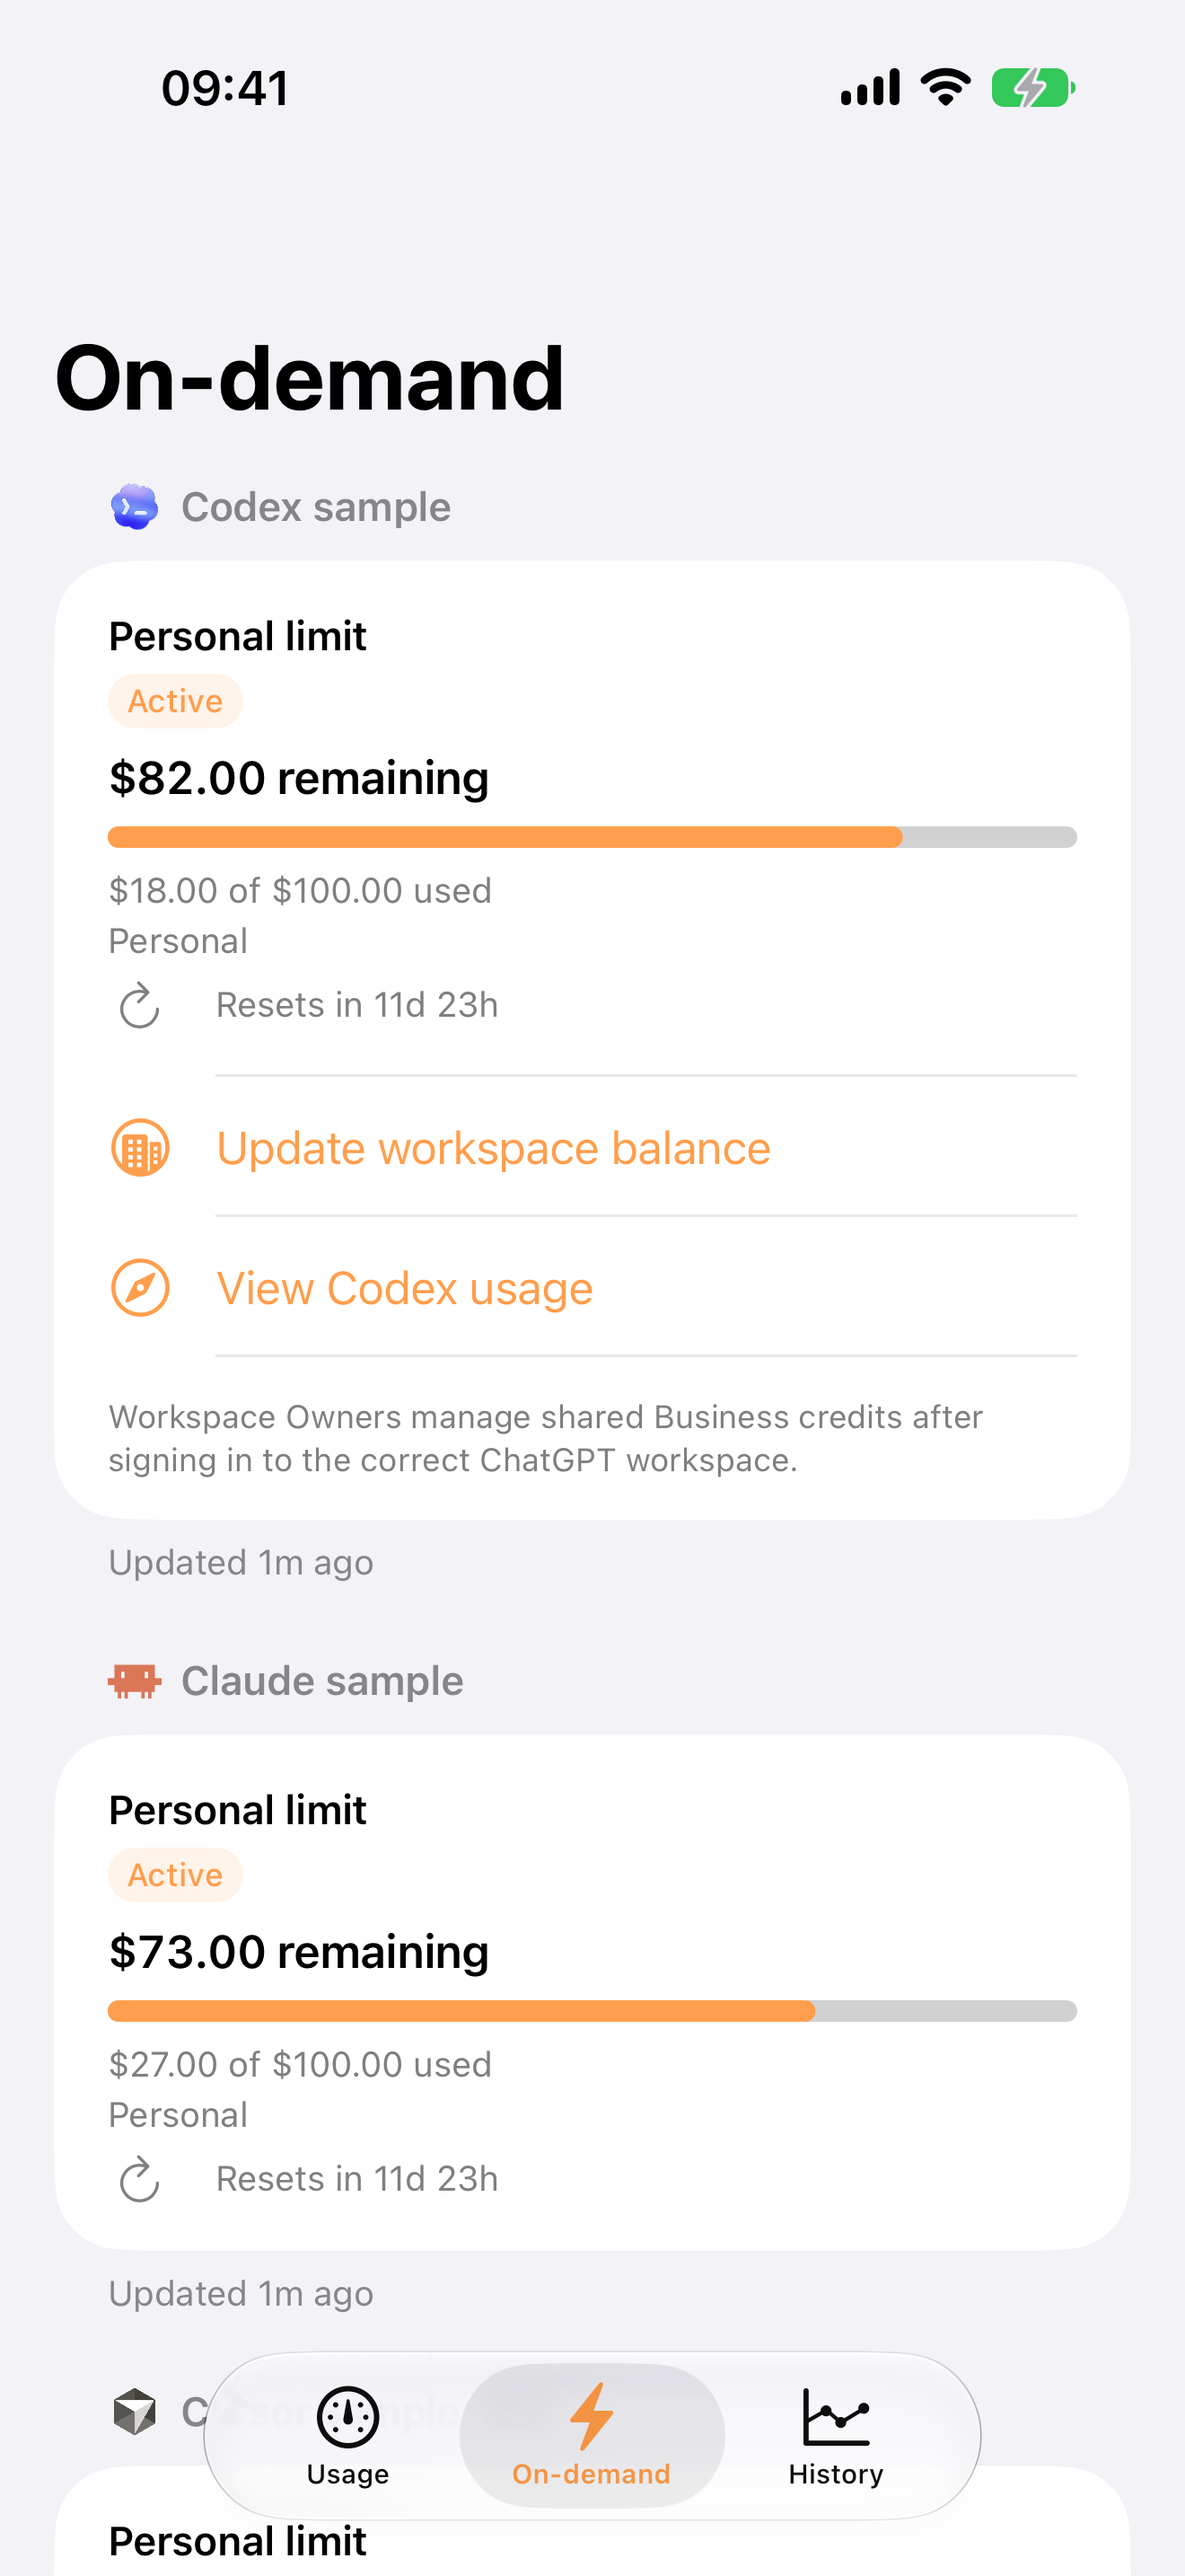
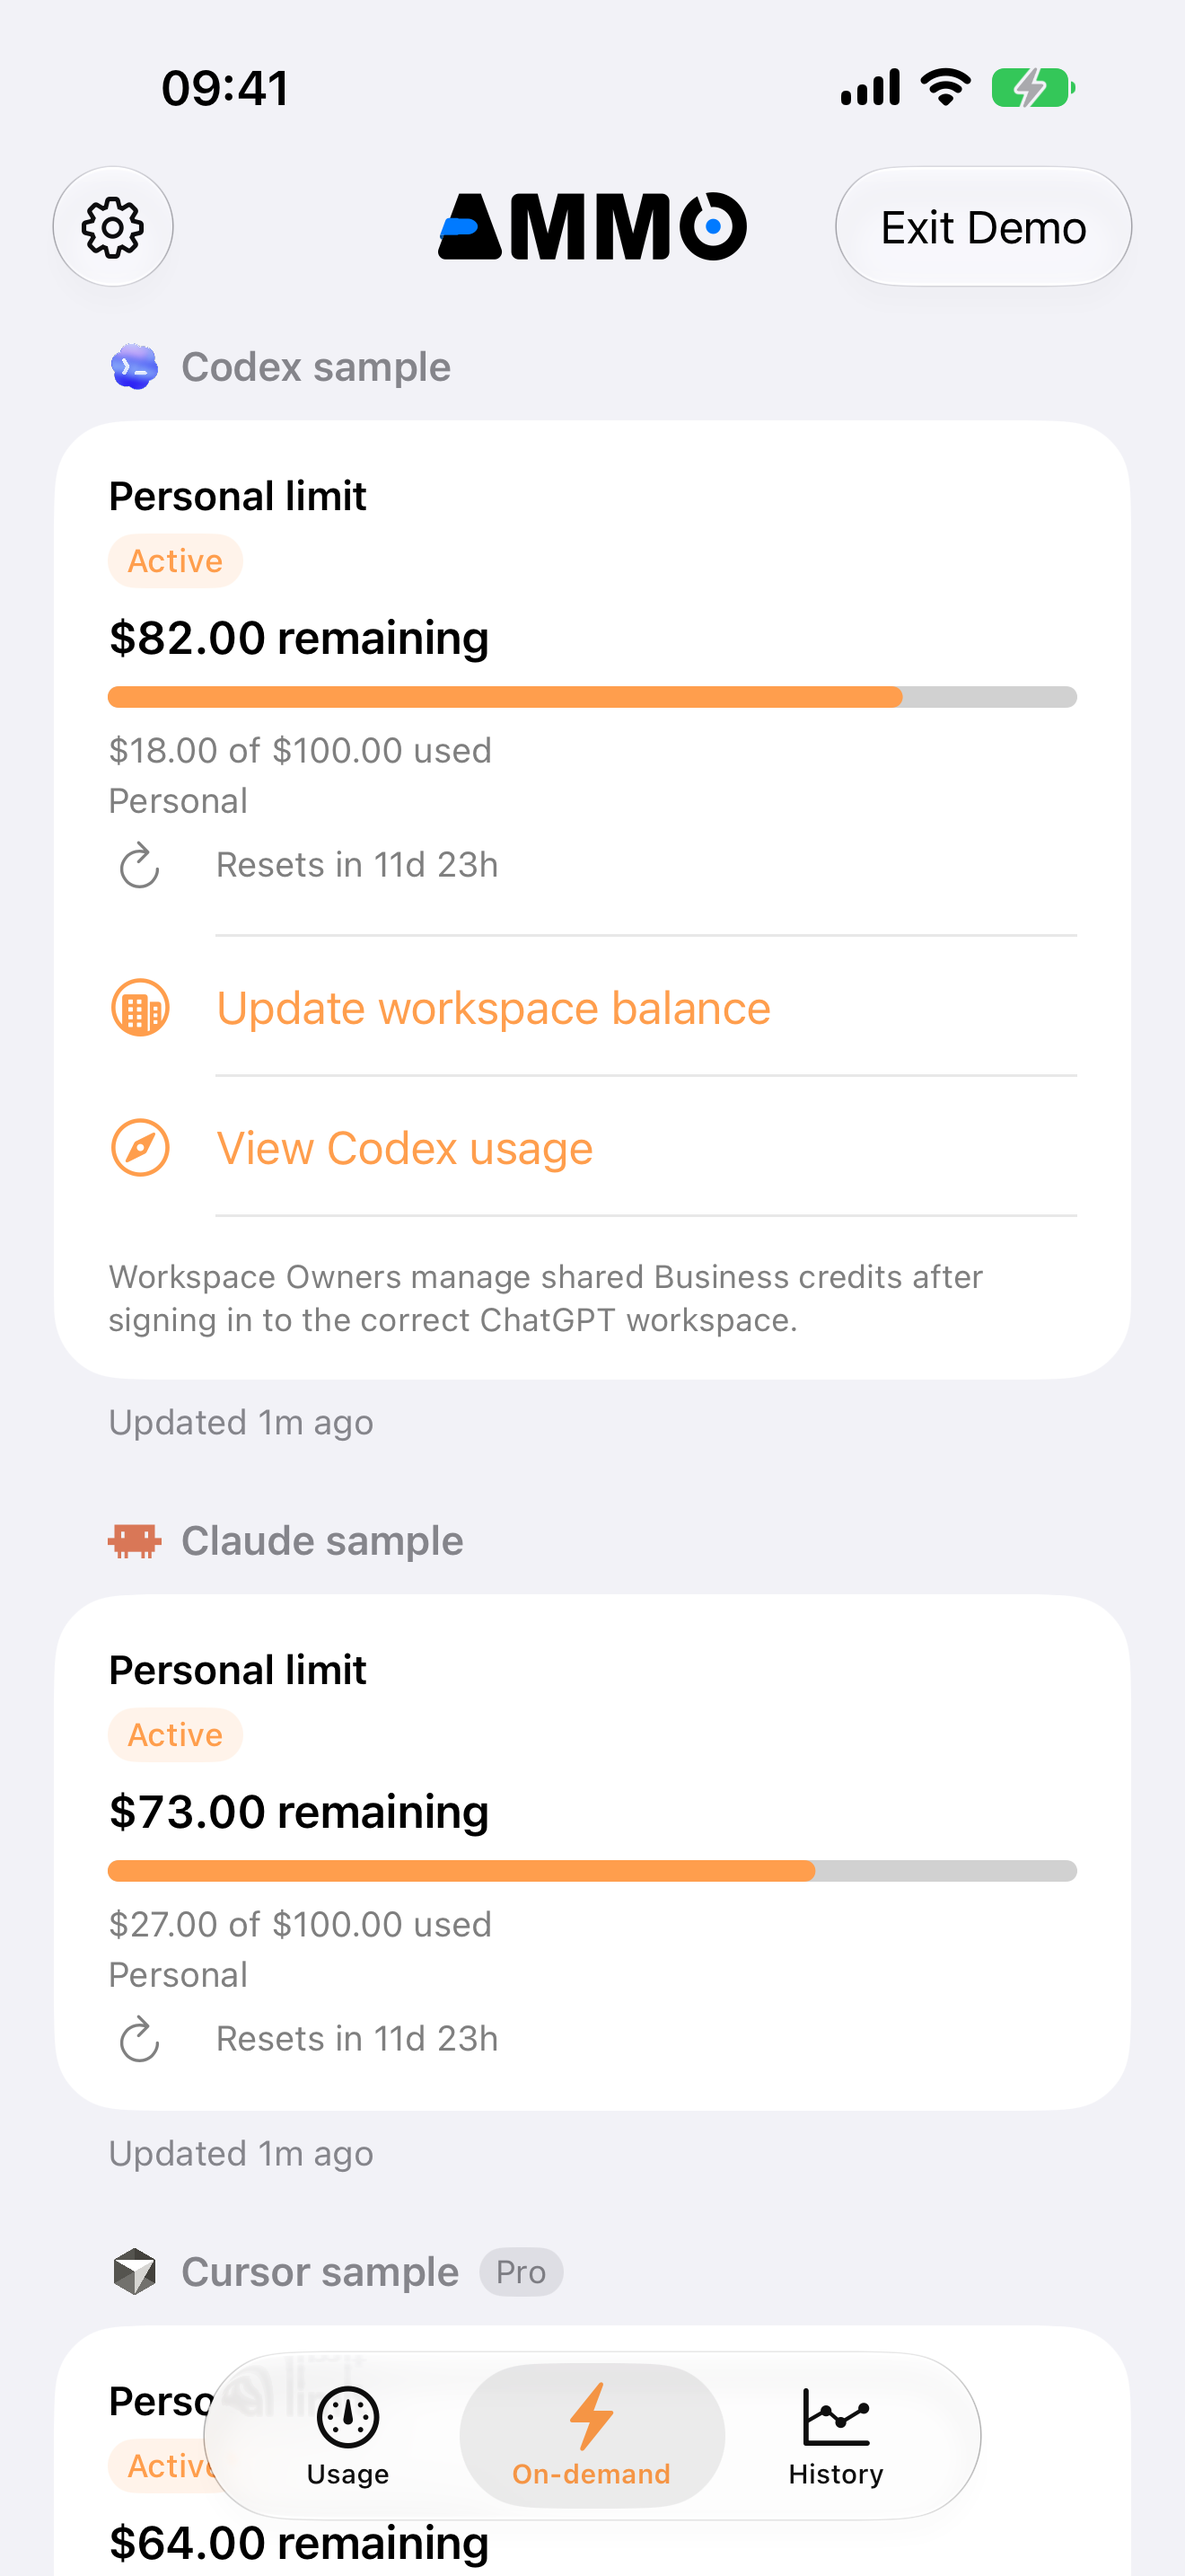
docs(launch): re-run gate 8 and re-capture gate 9 from 1ddf60c
The previous edition of the gate-8 log verified
b8e19b71affef8a97b781c242592cd0de9704213 and said any later source change
voids it. 1ddf60cbd59ea5e5b208ea292f730fdd46fcd2fe is a source change, so
every §1-§5 result was produced again from that one commit and nothing is
carried over.

Package suite 208 tests / 24 suites PASS. App-target suite 168 tests / 24
suites PASS with ** TEST SUCCEEDED ** — up from 166/23 by exactly the two
tests in TabHeaderConsistencyTests that 1ddf60c adds. Release archive for
generic/platform=iOS and App Store export both succeeded; the IPA is
8,608,202 bytes, sha256 a9143242cbab718b318824184512ebf018cd156690ba07d87
b12c84dfbdd2ec1. Entitlements, ITSAppUsesNonExemptEncryption=false, and
both packaged PrivacyInfo.xcprivacy files (1C8F.1) re-read out of the
archive and the IPA and all pass. Nothing was uploaded and no provisioning
was created or mutated.

Gate 9: all four 6.9-inch frames re-captured from 1ddf60c under the same
filenames, 1320 x 2868 each. On-demand and History now show the shared
compact header — gear, Ammo logo, Exit Demo in demo mode — instead of a
large typed title. 04-settings.png came out byte-identical to its
predecessor, so git records no change to that one file.

This commit touches documentation and screenshots only. It does not alter
the source that produced the binary and the frames described above; the
PR's source tree is byte-identical to 1ddf60c.

diff --git a/docs/launch-review/gate-8-build-verification-20260827.md b/docs/launch-review/gate-8-build-verification-20260827.md
@@ -4,16 +4,27 @@ Evidence log for `docs/launch-review/submission-package.md` §5 gates 8 and 9.
 Everything below was run on **2026-08-27** against one commit and one commit
 only.
 
-**Base commit:** `b8e19b71affef8a97b781c242592cd0de9704213`
-(`Merge pull request #42 from Brandon1138/claude/asc-settings-about-build18`)
-— the exact tip of `main` this branch was provisioned from. `MARKETING_VERSION`
-0.1.0, `CURRENT_PROJECT_VERSION` 18.
+**Source commit under test:** `1ddf60cbd59ea5e5b208ea292f730fdd46fcd2fe`
+(`feat(ui): give every tab the same compact Ammo header`) — the tip of
+`unify-tab-header-20260827`, itself cut from
+`7ff1837c5f7bd0c0d0793573fa11ffd612b11499`
+(`Merge pull request #43 from Brandon1138/appstore-gates-20260827`).
+`MARKETING_VERSION` 0.1.0, `CURRENT_PROJECT_VERSION` 18, both unchanged by that
+commit.
 
-**This PR changes documentation and screenshots only.** No source, no
-`project.yml`, no asset, and no package manifest is touched, so the binary
-verified here is bit-for-bit the binary that `main` produces after this PR
-merges. If any source lands on `main` afterwards, every result below is void and
-gate 8 must be re-run.
+**Why this log was re-run.** The previous edition of this file verified
+`b8e19b71affef8a97b781c242592cd0de9704213` and stated that any later source
+change voids it. `1ddf60c` is a source change — it unifies the Usage, On-demand,
+and History top chrome — so every §1–§5 result below was produced again, from
+that one commit, and nothing is carried over.
+
+**This PR's two commits.** `1ddf60c` is source only: five Swift files, no
+`project.yml`, no asset, no package manifest, no build number. The commit that
+follows it changes **only** this file and the four PNGs plus README under
+`Screenshots/appstore/6.9-inch/`, so it cannot alter the binary or the captures
+described here — the artifact verified below is bit-for-bit what `main` produces
+after this PR merges. If any further source lands on `main` afterwards, every
+result below is void and gate 8 must be re-run.
 
 **Toolchain.**
 
@@ -62,12 +73,16 @@ xcodebuild -project Apps/iOS/Ammo.xcodeproj -scheme Ammo \
 | Check | Result |
 |---|---|
 | Build of `Ammo`, `AmmoWidgets`, `AmmoTests` for the Simulator | **PASS** |
-| Swift Testing run | **PASS** — `Test run with 166 tests in 23 suites passed after 4.976 seconds` |
+| Swift Testing run | **PASS** — `Test run with 168 tests in 24 suites passed after 4.786 seconds` |
 | xcodebuild verdict | **PASS** — `** TEST SUCCEEDED **` |
 | Failures | none |
 
-The count differs from §1 (166 vs 208) because the app-target test bundle runs a
-subset of the package suites plus the app-only suites; both runs are green.
+The count differs from §1 (168 vs 208) because the app-target test bundle runs a
+subset of the package suites plus the app-only suites; both runs are green. It
+also differs from the previous edition of this log (168 in 24 suites, was 166 in
+23) by exactly the two tests in the one suite `1ddf60c` adds,
+`TabHeaderConsistencyTests`, which pin the shared header's demo-mode trailing
+action and its single sheet route.
 
 ## 3. Release / archive checks
 
@@ -88,7 +103,7 @@ xcodebuild -exportArchive -archivePath <scratch>/Ammo.xcarchive \
 |---|---|
 | Release archive for `generic/platform=iOS` | **PASS** — `** ARCHIVE SUCCEEDED **` |
 | App Store export | **PASS** — `** EXPORT SUCCEEDED **` |
-| Exported artifact | `Ammo.ipa`, 8,605,356 bytes, `sha256 7f2d97f990fae1464ccd994aaf972564452b73d7070b16d0a3e2778b2f32211d` |
+| Exported artifact | `Ammo.ipa`, 8,608,202 bytes, `sha256 a9143242cbab718b318824184512ebf018cd156690ba07d87b12c84dfbdd2ec1` |
 
 **Signing identity differs between the two artifacts, and this matters.**
 
@@ -156,9 +171,11 @@ environment failure occurred during them.
 
 ## 5. App Store screenshots (gate 9)
 
-Captured from the **same base commit**, `b8e19b71affef8a97b781c242592cd0de9704213`,
+Captured from the **same source commit**, `1ddf60cbd59ea5e5b208ea292f730fdd46fcd2fe`,
 from a Release `iphonesimulator` build of the `Ammo` scheme installed on iPhone
-17 Pro Max, iOS 27.0 (UDID `373491EF-27BF-47DE-AD44-3FF77675C8FC`).
+17 Pro Max, iOS 27.0 (UDID `373491EF-27BF-47DE-AD44-3FF77675C8FC`). The app was
+uninstalled first, so the empty state — and therefore **See a demo** — was
+reached from a genuinely clean install rather than from a leftover marker.
 
 **Method.** Status bar normalised with
 `xcrun simctl status_bar <udid> override --time 9:41 --dataNetwork wifi
@@ -170,19 +187,40 @@ device class, so no carrier string appears. Demo mode was entered by tapping
 was pinned to `en_US` with the standard `-AppleLocale` / `-AppleLanguages`
 launch arguments, so currency renders `$82.00` rather than the host machine's
 Romanian regional format. Taps were driven by a throwaway XCUITest bundle kept
-entirely outside this repository; nothing was added to the project to make the
-capture possible. Frames are unretouched `XCUIScreen.main.screenshot()` output —
-no cropping, resizing, upscaling, compositing, or device framing.
+entirely outside this repository, in a scratch directory; nothing was added to
+the project to make the capture possible. Frames are unretouched
+`XCUIScreen.main.screenshot()` output — no cropping, resizing, upscaling,
+compositing, or device framing.
+
+**Header assertions ran with the capture.** The same throwaway bundle asserted,
+on Usage *and* On-demand *and* History before each frame, that the Settings
+button, the `Ammo`-labelled logo, and the demo-mode `Exit Demo` action all exist,
+and that no navigation bar still draws a large typed `Usage`, `On-demand`, or
+`History` title. All three screens passed; the run reported
+`** TEST SUCCEEDED **`. The frames below are what those assertions saw.
 
 **Files**, all in `Screenshots/appstore/6.9-inch/`, all verified with
 `sips -g pixelWidth -g pixelHeight`:
 
 | File | Dimensions | Portrait | Screen |
 |---|---|---|---|
-| `ammo-6.9-inch-build18-01-usage.png` | 1320 x 2868 | yes | Usage — Codex / Claude / Cursor sample accounts |
-| `ammo-6.9-inch-build18-02-on-demand.png` | 1320 x 2868 | yes | On-demand — sample personal limits |
-| `ammo-6.9-inch-build18-03-history.png` | 1320 x 2868 | yes | History — sample weekly activity heatmap and chart |
+| `ammo-6.9-inch-build18-01-usage.png` | 1320 x 2868 | yes | Usage — shared header, Codex / Claude / Cursor sample accounts |
+| `ammo-6.9-inch-build18-02-on-demand.png` | 1320 x 2868 | yes | On-demand — shared header, sample personal limits |
+| `ammo-6.9-inch-build18-03-history.png` | 1320 x 2868 | yes | History — shared header, sample weekly activity heatmap and chart |
 | `ammo-6.9-inch-build18-04-settings.png` | 1320 x 2868 | yes | Settings sheet — per-provider notification toggles |
+
+All four were re-captured and written over the build 18 files of the same name
+captured from `b8e19b71affef8a97b781c242592cd0de9704213`. The filenames are
+unchanged. On-demand and History now show the same compact chrome as Usage —
+gear, Ammo logo, `Exit Demo` while the demo is on — where they previously showed
+a large `On-demand` / `History` title and no toolbar at all.
+
+Three of the four changed on disk; the fourth did not. The new
+`ammo-6.9-inch-build18-04-settings.png` came out **byte-identical** to the
+committed one (blob `b9921d35dc84b63e7411324d2ee00b57537b8ec8`), because the
+Settings sheet renders nothing time-dependent, so git records no change to it.
+It was captured from `1ddf60c` all the same. `01-usage.png` differs only in its
+relative "Updated N sec ago" line.
 
 `sips` verification: **4 of 4 PASS**, exactly 1320 x 2868 portrait PNG each.
 
@@ -199,8 +237,9 @@ Settings About section landed. They were deleted so the wrong set cannot be
 uploaded; git history retains them.
 
 **Settings is a sheet, not a tab.** Ammo's tab bar has three tabs (Usage,
-On-demand, History); Settings opens from the gear button in the Usage screen's
-leading toolbar. The fourth screenshot is that sheet presented over Usage.
+On-demand, History); Settings opens from the gear button in the shared leading
+toolbar, which as of `1ddf60c` is present on all three tabs rather than on Usage
+alone. The fourth screenshot is that sheet presented over Usage, as before.
 
 ---
 
@@ -242,3 +281,5 @@ plutil -p /tmp/ipa-unzip/Payload/Ammo.app/PrivacyInfo.xcprivacy
 ```
 
 Re-run all of it on any new release-candidate commit. Reuse no proof above.
+This edition is itself an instance of that rule: `1ddf60c` changed source, so
+every number above was regenerated rather than inherited.

diff --git a/Screenshots/appstore/6.9-inch/README.md b/Screenshots/appstore/6.9-inch/README.md
@@ -19,8 +19,8 @@ restored.
 | File | Device | Resolution | Content |
 | --- | --- | --- | --- |
 | `ammo-6.9-inch-build18-01-usage.png` | iPhone 17 Pro Max, iOS 27.0 | 1320 x 2868 native | Usage tab with Codex, Claude, and Cursor sample accounts |
-| `ammo-6.9-inch-build18-02-on-demand.png` | iPhone 17 Pro Max, iOS 27.0 | 1320 x 2868 native | On-demand tab with sample personal limits |
-| `ammo-6.9-inch-build18-03-history.png` | iPhone 17 Pro Max, iOS 27.0 | 1320 x 2868 native | History tab with sample weekly activity heatmap and chart |
+| `ammo-6.9-inch-build18-02-on-demand.png` | iPhone 17 Pro Max, iOS 27.0 | 1320 x 2868 native | On-demand tab with sample personal limits, under the shared header |
+| `ammo-6.9-inch-build18-03-history.png` | iPhone 17 Pro Max, iOS 27.0 | 1320 x 2868 native | History tab with sample weekly activity heatmap and chart, under the shared header |
 | `ammo-6.9-inch-build18-04-settings.png` | iPhone 17 Pro Max, iOS 27.0 | 1320 x 2868 native | Settings sheet: notification toggles per provider |
 
 The previous unversioned set (`01-usage.png` … `04-settings.png`) was captured
@@ -31,10 +31,12 @@ holds it.
 
 ## Capture and privacy notes
 
-- Captured from base commit `b8e19b71affef8a97b781c242592cd0de9704213`
-  (`MARKETING_VERSION` 0.1.0, `CURRENT_PROJECT_VERSION` 18), the exact commit
-  this branch was provisioned from, after `xcodegen generate` and a Release
-  `iphonesimulator` build of the `Ammo` scheme.
+- Captured from source commit `1ddf60cbd59ea5e5b208ea292f730fdd46fcd2fe`
+  (`MARKETING_VERSION` 0.1.0, `CURRENT_PROJECT_VERSION` 18), the source-only
+  commit of this branch, after `xcodegen generate` and a Release
+  `iphonesimulator` build of the `Ammo` scheme. The docs-and-screenshots commit
+  that carries these files does not touch source, so it cannot change what they
+  show.
 - Demo mode supplied every visible account and data point, entered by tapping
   **See a demo** in the empty state. No credentials, network requests, real
   account files, token, personal label, or account identifier appears in the
@@ -52,5 +54,23 @@ holds it.
   simulator Home Screen and system Home Screen widget placement is not
   reachable from the automation bridge. A widget shot, if wanted, is a device
   capture task.
+
+## Shared header (build 18, `1ddf60c`)
+
+All four frames were re-captured because Usage, On-demand, and History now draw
+one compact top bar: Settings gear leading, Ammo logo centred, Add Account
+trailing — `Exit Demo` in place of Add Account while the demo is on. The
+previous build 18 frames of the same filenames showed a large `On-demand` /
+`History` title and no toolbar on those two tabs. Filenames are unchanged so
+nothing downstream has to be re-pointed.
+
+Three of the four changed on disk. `04-settings.png` came out byte-identical to
+its predecessor — the Settings sheet renders nothing time-dependent — so git
+shows no change to that one file even though it was captured from `1ddf60c` with
+the rest.
+
+The capture run asserted on each of the three tabs that Settings, the
+`Ammo`-labelled logo, and `Exit Demo` are present and that no large typed title
+remains, and passed on all three.
 
 Evidence log: `docs/launch-review/gate-8-build-verification-20260827.md`.
